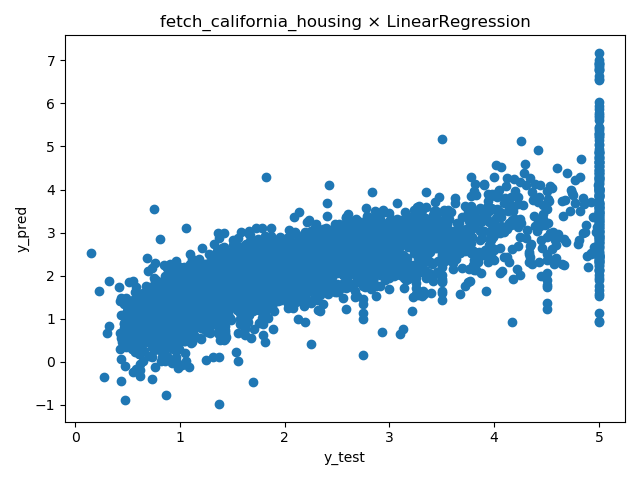
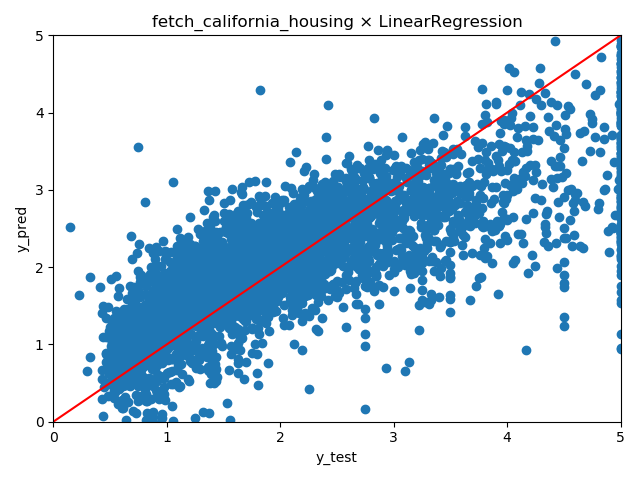
Subject:Correction of yyplot
Explanation:Make the shape a square and add a diagonal because yyplot
	    was hard to see.

diff --git a/main.py b/main.py
@@ -32,6 +32,9 @@ y_pred = model.predict(X_test)
 
 # yyplot
 plt.scatter(y_test, y_pred)
+plt.ylim(0, 5)
+plt.xlim(0, 5)
+plt.plot(np.linspace(0, 5, 5), np.linspace(0, 5, 5), "r-")
 plt.title('fetch_california_housing × LinearRegression')
 plt.xlabel('y_test')
 plt.ylabel('y_pred')
